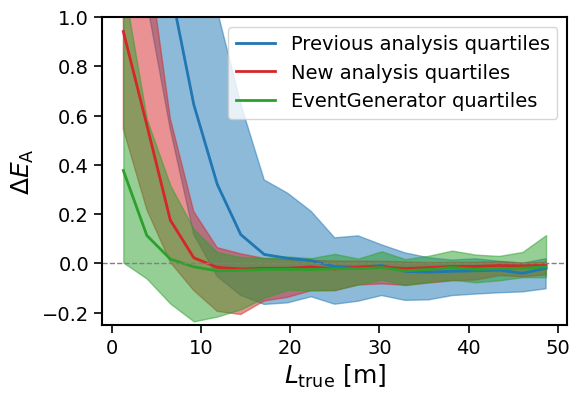
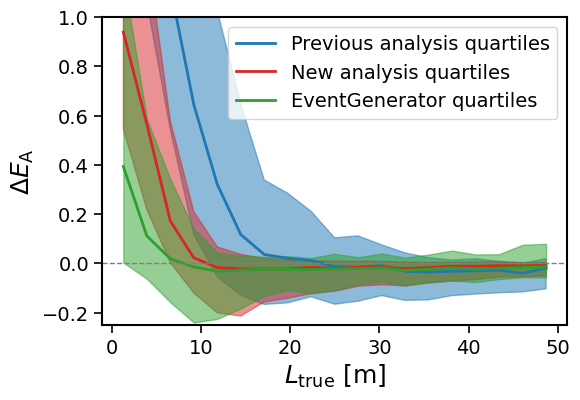
addd plots evtgen without spice

diff --git a/performance/main_spice.py b/performance/main_spice.py
@@ -14,7 +14,7 @@ reco_version_spice = "spice_tau_reco"
 hdf_path_spice = f"/data/user/tvaneede/GlobalFit/reco_processing/hdf/output/{reco_version_spice}"
 plotting_main_path = f"/data/user/tvaneede/GlobalFit/reco_processing/performance/plots/{reco_version_spice}"
 
-reco_version_ftp = "taureco_iceprod_v1"
+reco_version_ftp = "taureco_iceprod_v3"
 hdf_path_ftp = f"/data/user/tvaneede/GlobalFit/reco_processing/hdf/output/{reco_version_ftp}/merged"
 
 os.system(f"mkdir -p {plotting_main_path}")
@@ -128,4 +128,12 @@ for plot_quartiles in [True,False]:
         x = plot_median_quartiles( hdf_files,
                                     plots,
                                     plotting_main_path=f"{plotting_main_path}/evtgen_quartiles-{plot_quartiles}",
+                                    plot_quartiles = plot_quartiles )
+        
+        # lets also make plots without spice
+        plots[1]["bins"] = np.linspace(0,20,20)
+        plots[2]["bins"] = np.linspace(0,20,20)
+        x = plot_median_quartiles( hdf_files[1:],
+                                    plots[1:],
+                                    plotting_main_path=f"{plotting_main_path}/evtgen_quartiles-{plot_quartiles}-nospice",
                                     plot_quartiles = plot_quartiles )
